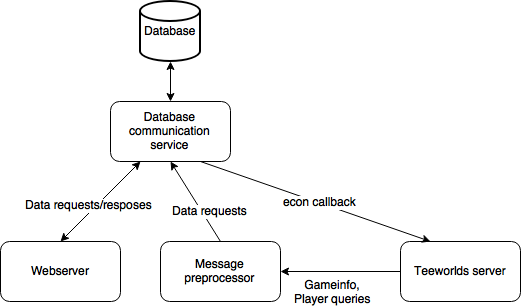
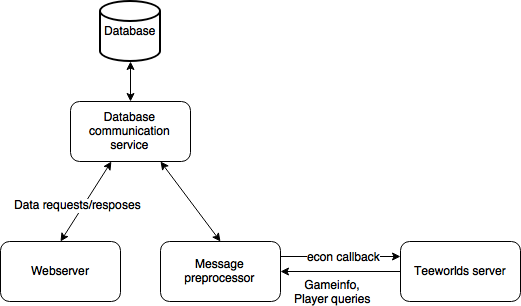
Rewrite client; Make communication with db server synchronous and send callbacks to teeworlds server from the client Move configuration to files to client, remove options to launch info reporting in several threads. Remove callback address from the messages between preprocessor and ratings server

diff --git a/README.md b/README.md
@@ -10,7 +10,7 @@ Dependencies
 ocamlfind ocamlc sqlite3
 
 Opam packages:
-yojson extlib sqlite3 ocamlnet
+yojson extlib sqlite3 ocamlnet config-file
 
 Compiling
 ---------
